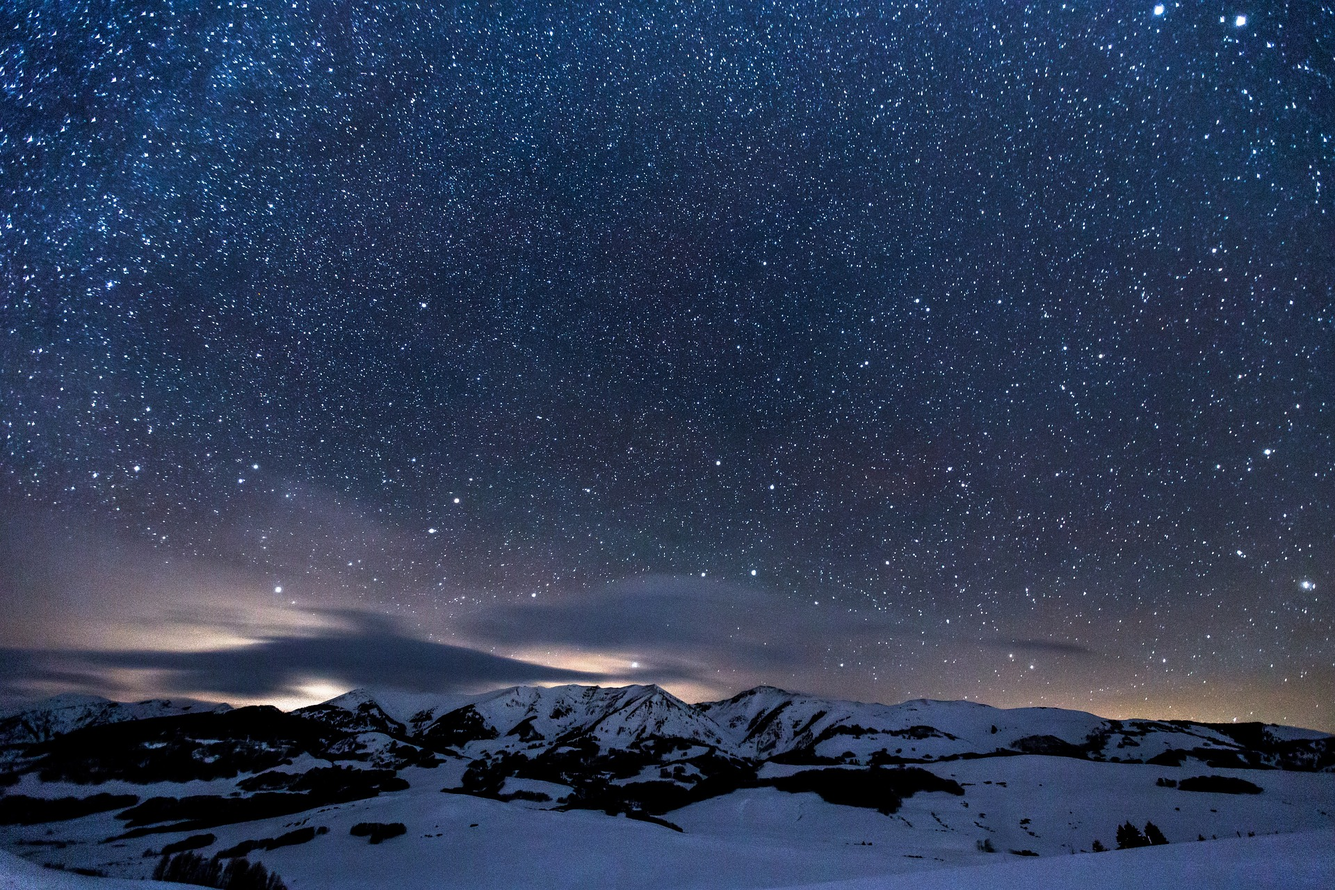
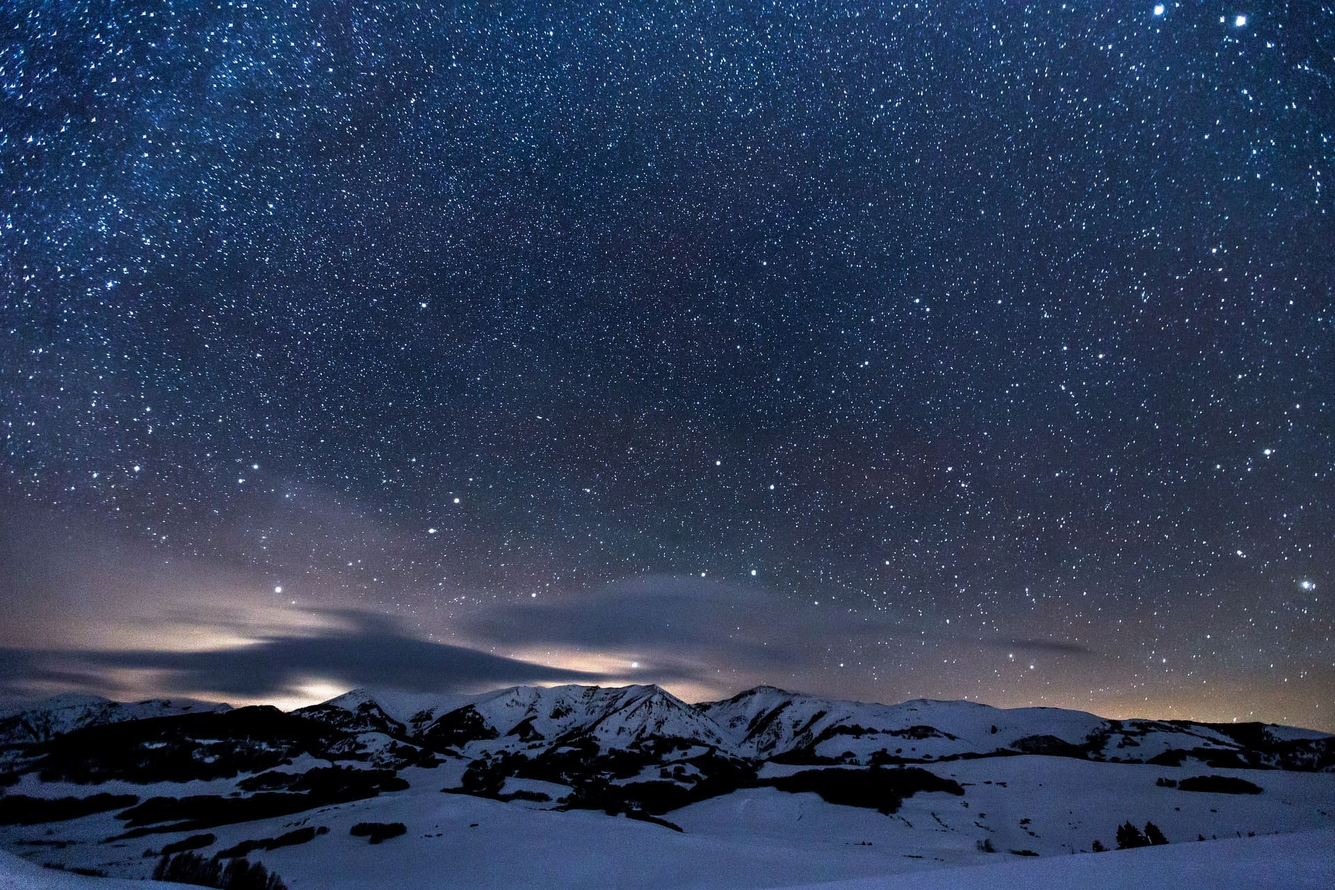
實現swip換頁不閃爍

diff --git a/source/assets/css/main.css b/source/assets/css/main.css
@@ -16,9 +16,10 @@ html,
 body {
   font-family:
     "Iansui", "LXGW WenKai Mono TC", "Noto Sans TC", system-ui, sans-serif;
+
 }
 
-body {
+#swup {
   min-height: 100vh;
   background-size: cover;
   background-position: center;
@@ -185,7 +186,7 @@ main {
 /* ----------------RWD------------------- */
 @media (max-width: 640px) and (orientation: portrait) {
   #home {
-    margin:3rem 0;
+    margin: 3rem 0;
 
     & section {
       & .home-content {
@@ -210,7 +211,8 @@ main {
           padding-top: 1rem;
           gap: 0.8rem;
         }
-        .BtnBox{
+
+        .BtnBox {
           gap: 0.2rem;
         }
       }
@@ -227,7 +229,8 @@ main {
   .home-content {
     padding: 3rem 1rem;
   }
-    #home .lang-switcher{
+
+  #home .lang-switcher {
     right: -3%;
   }
 }
@@ -237,7 +240,8 @@ main {
   .home-content {
     padding: 3rem 1rem;
   }
-  #home .lang-switcher{
+
+  #home .lang-switcher {
     right: 0%;
   }
 }
@@ -247,7 +251,8 @@ main {
   .home-content {
     padding: 4rem 5rem;
   }
-    #home .lang-switcher{
+
+  #home .lang-switcher {
     right: 15%;
   }
 }
@@ -301,4 +306,9 @@ main {
   animation: fadeIn 1.2s ease forwards;
   animation-delay: 0.3s;
   /* 延遲多久開始 */
+}
+
+.fade-in-once-nodely {
+  opacity: 0;
+  animation: fadeIn 1.2s ease forwards;
 }

diff --git a/source/assets/css/reset.css b/source/assets/css/reset.css
@@ -4,6 +4,7 @@
 html {
   line-height: 1.15;
   -webkit-text-size-adjust: 100%;
+  /* background: #000; */
 }
 
 body {
@@ -27,7 +28,8 @@ samp {
   font-family: monospace, monospace;
   font-size: 1em;
 }
-　　 a {
+
+a {
   background-color: transparent;
 }
 
@@ -193,6 +195,7 @@ button {
   background: none;
   border: none;
   transition: all 0.2s;
+
   &:hover {
     opacity: 0.8;
     background-color: var(--bgColor);
@@ -207,6 +210,7 @@ button.hasborder {
   padding: 0 0.8rem;
   border-radius: 2px;
 }
+
 /* ===== Select ===== */
 select,
 select::picker(select) {
@@ -233,15 +237,18 @@ option {
   padding: 10px;
   transition: 0.4s;
 }
+
 option::checkmark {
   order: 1;
   margin-left: auto;
   content: "☑";
 }
+
 option .icon {
   font-size: 1.6rem;
   text-box: trim-both cap alphabetic;
 }
+
 option:hover,
 option:focus {
   background: rgb(212, 212, 212);

diff --git a/source/zh-tw/original/index.md b/source/zh-tw/original/index.md
@@ -2,9 +2,9 @@
 layout: page/zh-tw/original
 title: "夜明曉更前|原創"
 
-bg: "/image/bg-base.jpg"
-bgColor: "rgba(255,36,61,0.9)"
+bg: ""
+bgColor: "rgba(0,36,61,0.9)"
 bgBlend: "multiply"
-textColor: "red"
+textColor: "#fff"
 textColorHover: "#f0f0f099;"
 ---
